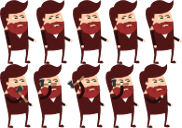
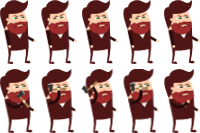
mecánica de juego lista

diff --git a/src/Preloader.js b/src/Preloader.js
@@ -1,7 +1,7 @@
 Presenter.Preloader = function(game) {};
 Presenter.Preloader.prototype = {
 	preload: function() {
-		this.preloadBg = this.add.sprite((Presenter._WIDTH-297)*0.5, (Presenter._HEIGHT-145)*0.5, 'preloaderBg');
+		this.preloadBg = this.add.sprite((Presenter._WIDTH-158)*0.5, (Presenter._HEIGHT-50)*0.5, 'preloaderBg');
 		this.preloadBar = this.add.sprite((Presenter._WIDTH-158)*0.5, (Presenter._HEIGHT-50)*0.5, 'preloaderBar');
 		this.load.setPreloadSprite(this.preloadBar);
 
@@ -19,9 +19,9 @@ Presenter.Preloader.prototype = {
 		this.load.audio('audio-bounce', ['audio/bounce.ogg', 'audio/bounce.mp3', 'audio/bounce.m4a']);
 
 
-		this.load.spritesheet("h1","img/h1.png",36,64,10,0,0);
-		this.load.spritesheet("h2","img/h2.png",36,64,10,0,0);
-		this.load.spritesheet("h3","img/h3.png",36,64,10,0,0);
+		this.load.spritesheet("h1","img/h1.png",36,64,10,0,5);
+		this.load.spritesheet("h2","img/h2.png",36,64,10,0,5);
+		this.load.spritesheet("h3","img/h3.png",36,64,10,0,5);
 
 		this.load.image('axe', 'img/axe.png');
 

diff --git a/src/Game.js b/src/Game.js
@@ -421,6 +421,7 @@ Presenter.Game.prototype = {
 		this.updateEnemies();
 		if(this.score >= this.level*100){
 			this.level+=1;
+			this.levelText.setText("Level: "+this.level);
 		}
 		for (var i = this.heroes.length - 1; i >= 0; i--){
 			var hero = this.heroes[i];

diff --git a/src/MainMenu.js b/src/MainMenu.js
@@ -9,7 +9,7 @@ Presenter.MainMenu.prototype = {
 		this.startButton.input.useHandCursor = true;
 
 		// button to "read the article"
-		this.game.state.start('Game');
+		//this.game.state.start('Game');
 	},
 	startGame: function(){
 		this.game.state.start('Game');
